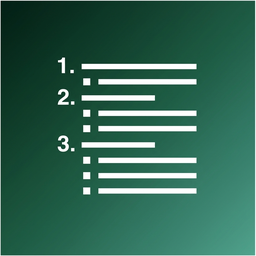
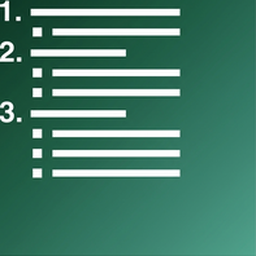
feat: 优化图谱概念指南图、插件中心菜单视觉配色及统一未配置AI大模型弹窗拦截

Changed region(s): [[0.0, 0.0, 1.0, 1.0]]

diff --git a/Tests/UI/SettingsUITests.swift b/Tests/UI/SettingsUITests.swift
@@ -215,42 +215,51 @@ final class SettingsE2ETests: KnowledgeBaseUITests {
 
     /// 验证语言切换控件可交互
     func testLanguageSwitching() async {
-        let tabLabels = ["Settings", "设置"]
-        var tapped = false
-        for label in tabLabels {
-            let tab = app.tabBars.buttons[label].exists ? app.tabBars.buttons[label] : app.buttons[label]
-            if tab.exists && tab.isHittable {
-                tab.tap()
-                tapped = true
-                break
-            }
-        }
-        if !tapped {
-            let tab = app.tabBars.buttons.element(boundBy: 3)
-            if tab.exists && tab.isHittable {
-                tab.tap()
-            }
-        }
-        try? await Task.sleep(nanoseconds: UInt64(1 * 1_000_000_000))
+        // 1. 找到用户头像入口并点击
+        let profileButton = app.buttons["userProfileMenuButton"]
+        XCTAssertTrue(profileButton.waitForExistence(timeout: 5), "用户头像入口应当存在")
+        profileButton.tap()
 
+        try? await Task.sleep(nanoseconds: 1_000_000_000)
+
+        // 2. 点击系统设置菜单项
+        let settingsMenuButton = app.buttons["settingsMenuButton"]
+        XCTAssertTrue(settingsMenuButton.waitForExistence(timeout: 5), "系统设置菜单入口应当存在")
+        settingsMenuButton.tap()
+
+        try? await Task.sleep(nanoseconds: 1_500_000_000)
+
+        // 3. 语言切换测试
         let langPicker = app.pickerWheels.firstMatch
         if langPicker.exists && langPicker.isHittable {
             langPicker.adjust(toPickerWheelValue: "English")
-            try? await Task.sleep(nanoseconds: UInt64(0.5 * 1_000_000_000))
+            try? await Task.sleep(nanoseconds: 500_000_000)
         }
     }
 
     /// 验证主题颜色按钮可交互
     func testThemeAccentColorChange() async {
-        tapTab(named: "设置")
-        try? await Task.sleep(nanoseconds: UInt64(1 * 1_000_000_000))
+        // 1. 找到用户头像入口并点击
+        let profileButton = app.buttons["userProfileMenuButton"]
+        XCTAssertTrue(profileButton.waitForExistence(timeout: 5), "用户头像入口应当存在")
+        profileButton.tap()
 
+        try? await Task.sleep(nanoseconds: 1_000_000_000)
+
+        // 2. 点击系统设置菜单项
+        let settingsMenuButton = app.buttons["settingsMenuButton"]
+        XCTAssertTrue(settingsMenuButton.waitForExistence(timeout: 5), "系统设置菜单入口应当存在")
+        settingsMenuButton.tap()
+
+        try? await Task.sleep(nanoseconds: 1_500_000_000)
+
+        // 3. 主题色变更测试
         let colorButtons = app.buttons.matching(
             NSPredicate(format: "identifier CONTAINS 'accent' OR identifier CONTAINS 'color'")
         ).allElementsBoundByIndex
         if let firstColor = colorButtons.first {
             safeTap(firstColor)
-            try? await Task.sleep(nanoseconds: UInt64(0.5 * 1_000_000_000))
+            try? await Task.sleep(nanoseconds: 500_000_000)
         }
     }
 }

diff --git a/Tests/UI/AISettingsTabSwitchingUITests.swift b/Tests/UI/AISettingsTabSwitchingUITests.swift
@@ -50,8 +50,10 @@ final class AISettingsTabSwitchingUITests: XCTestCase {
         try? await Task.sleep(nanoseconds: 1_500_000_000)
 
         // 3. 确认进入 AI 设置页面
-        let navTitle = app.navigationBars["人工智能"]
-        XCTAssertTrue(navTitle.waitForExistence(timeout: 5), "AI 设置页面导航栏标题应为'人工智能'")
+        let navTitle = app.navigationBars.firstMatch
+        XCTAssertTrue(navTitle.waitForExistence(timeout: 5), "AI 设置页面导航栏应当存在")
+        let titleLabel = navTitle.staticTexts.firstMatch.label
+        XCTAssertTrue(titleLabel == "人工智能" || titleLabel == "Artificial Intelligence", "AI 设置页面导航栏标题应为 '人工智能' 或 'Artificial Intelligence'")
 
         // 4. 通过 segmented control 定位 Picker
         let segmentedControl = app.segmentedControls.firstMatch
@@ -71,7 +73,7 @@ final class AISettingsTabSwitchingUITests: XCTestCase {
         print("DEBUG ALL static texts: \(allStaticTexts)")
 
         let apiKeyText = app.staticTexts.containing(
-            NSPredicate(format: "label CONTAINS '开启 AI 助手' OR label CONTAINS '提供商' OR label CONTAINS 'API'")
+            NSPredicate(format: "label CONTAINS '开启 AI 助手' OR label CONTAINS 'Enable AI Assistant' OR label CONTAINS '提供商' OR label CONTAINS 'Provider' OR label CONTAINS 'API'")
         ).firstMatch
         XCTAssertTrue(apiKeyText.waitForExistence(timeout: 3),
                       "点击'在线大模型' tab 后应显示相关配置内容（API Key、提供商等），说明 tab 切换响应成功")
@@ -87,10 +89,10 @@ final class AISettingsTabSwitchingUITests: XCTestCase {
         print("DEBUG ALL static texts: \(allStaticTexts2)")
 
         let localText = app.staticTexts.containing(
-            NSPredicate(format: "label CONTAINS '本地' OR label CONTAINS '模型市场' OR label CONTAINS '测试'")
+            NSPredicate(format: "label CONTAINS '本地' OR label CONTAINS '模型市场' OR label CONTAINS '测试' OR label CONTAINS 'Model Store' OR label CONTAINS 'Laboratory' OR label CONTAINS 'Local'")
         ).firstMatch
         XCTAssertTrue(localText.waitForExistence(timeout: 3),
-                      "点击'本地大模型' tab 后应显示相关配置内容（模型市场/测试实验室）")
+                      "点击'本地大模型' tab 后应显示相关配置内容（模型市场/测试实验室/Model Store/Laboratory/Local）")
 
         // 8. 点击 "大模型策略" tab 回到第一项
         let tab1 = segmentedControl.buttons.element(boundBy: 0)
@@ -99,7 +101,7 @@ final class AISettingsTabSwitchingUITests: XCTestCase {
         try? await Task.sleep(nanoseconds: 1_000_000_000)
 
         let strategyText = app.staticTexts.containing(
-            NSPredicate(format: "label CONTAINS '策略' OR label CONTAINS '路由' OR label CONTAINS '本地模型'")
+            NSPredicate(format: "label CONTAINS '策略' OR label CONTAINS '路由' OR label CONTAINS '本地模型' OR label CONTAINS 'Strategy' OR label CONTAINS 'Policy' OR label CONTAINS 'Routing' OR label CONTAINS 'Collaborative AI'")
         ).firstMatch
         XCTAssertTrue(strategyText.waitForExistence(timeout: 3),
                       "点击'大模型策略' tab 后应显示路由策略相关内容")

diff --git a/Tests/UI/ZhiYuPlatformUITests.swift b/Tests/UI/ZhiYuPlatformUITests.swift
@@ -529,6 +529,13 @@ final class iPadTests: ZhiYuPlatformUITests {
 @available(iOS 17.0, *)
 final class MacCatalystTests: ZhiYuPlatformUITests {
 
+    override func setUp() async throws {
+        try await super.setUp()
+        // 非 Mac Catalyst 环境下跳过该类中的所有测试
+        try XCTSkipUnless(ProcessInfo.processInfo.isiOSAppOnMac || ProcessInfo.processInfo.isMacCatalystApp,
+                          "仅在 Mac Catalyst 目标上运行 MacCatalystTests")
+    }
+
     /// 验证 Mac 菜单栏存在（仅 macCatalyst 环境）
     func testMacMenuBarExists() throws {
         // 非 Mac Catalyst 环境下跳过
@@ -761,10 +768,10 @@ final class AccessibilityTests: ZhiYuPlatformUITests {
 
         // 验证找到的导航元素应该有 accessibility label
         if knowledgeTabBar.exists {
-            XCTAssertFalse(knowledgeTabBar.accessibilityLabel?.isEmpty ?? true,
+            XCTAssertFalse(knowledgeTabBar.label.isEmpty,
                            "Knowledge TabBar 按鈕应有 accessibility label")
         } else if knowledgeSidebar.exists {
-            XCTAssertFalse(knowledgeSidebar.accessibilityLabel?.isEmpty ?? true,
+            XCTAssertFalse(knowledgeSidebar.label.isEmpty,
                            "Knowledge Sidebar 按鈕应有 accessibility label")
         }
     }

diff --git a/Sources/Shared/UIComponents/Menus/UserProfileMenu.swift b/Sources/Shared/UIComponents/Menus/UserProfileMenu.swift
@@ -444,6 +444,7 @@ struct CustomProfilePopover: View {
                         onAction?(.settings)
                         showMenuPopover = false
                     }
+                    .accessibilityIdentifier("settingsMenuButton")
                     
                     menuRow(icon: "creditcard.fill", color: Color(hue: 0.62, saturation: 0.65, brightness: 0.82), title: L10n.Auth.subscription) {
                         onAction?(.plan)